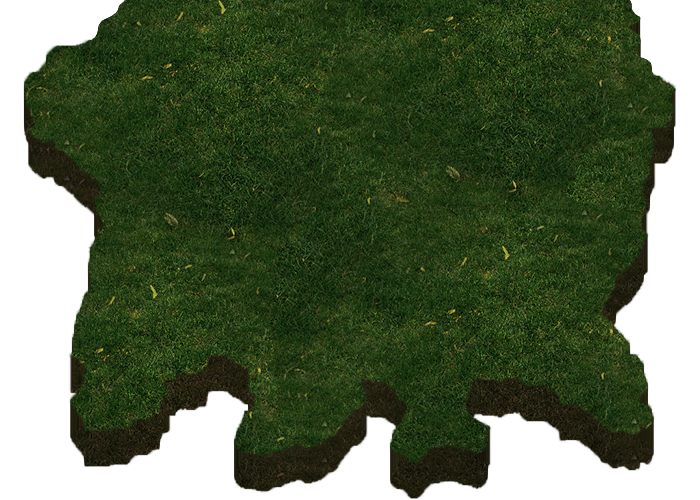
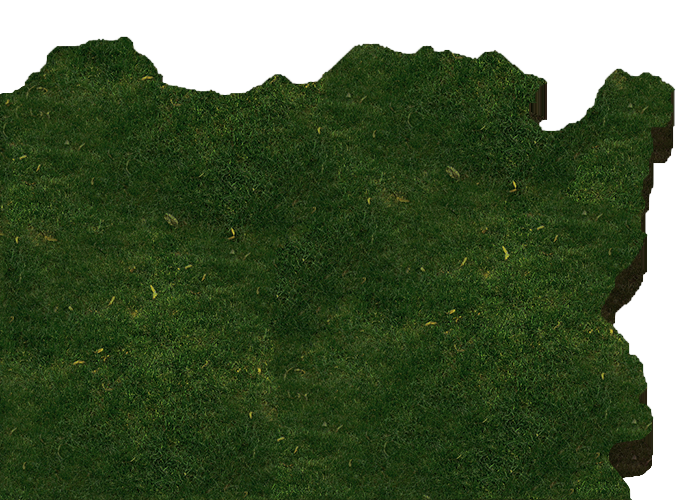
map : connect images - erase all

diff --git a/src/com/thrumania/src/mapEditor/Panel.java b/src/com/thrumania/src/mapEditor/Panel.java
@@ -16,6 +16,7 @@ import java.awt.event.MouseListener;
 import java.awt.event.MouseMotionListener;
 import java.util.ArrayList;
 import java.util.LinkedList;
+import java.util.concurrent.TimeUnit;
 
 public class Panel implements GraphicHandler {
     private com.thrumania.src.draw.GamePanel drawPanel;
@@ -50,7 +51,7 @@ public class Panel implements GraphicHandler {
         isRunningMap = true;
 
 
-        mapSize = new Dimension(1920 * 2, 1200 * 2);
+        mapSize = minMapSize;
         maxXMap = mapSize.width - 1920;
         maxYMap = mapSize.height - 1080 + Constant.BOTTOM_FRAME_HEIGHT/* for bottom panel*/;
 
@@ -75,13 +76,14 @@ public class Panel implements GraphicHandler {
                 g.drawImage(new ImageIcon("src/res/images/ground/sea.jpg").getImage(), -(x0 % Constant.MIN_WIDTH_OF_EACH_SEA) + i * Constant.MIN_WIDTH_OF_EACH_SEA, -(y0 % Constant.MIN_HEIGHT_OF_EACH_SEA) + j * Constant.MIN_HEIGHT_OF_EACH_SEA, Constant.MIN_WIDTH_OF_EACH_SEA, Constant.MIN_HEIGHT_OF_EACH_SEA, null);
             }
 
-        for(int i = x0 / Constant.MIN_WIDTH_OF_EACH_GROUND ; i < (1920 + x0)/Constant.MIN_WIDTH_OF_EACH_GROUND - x0 / Constant.MIN_WIDTH_OF_EACH_GROUND +1; i++)
+        for(int i = x0 / Constant.MIN_WIDTH_OF_EACH_GROUND ; i < (1920 + x0)/Constant.MIN_WIDTH_OF_EACH_GROUND  +1; i++)
             for(int j = y0 / Constant.MIN_HEIGHT_OF_EACH_GROUND ; j < (1080-250 + y0)/Constant.MIN_HEIGHT_OF_EACH_GROUND +1; j++)
             {
                 Constant.GROUND thisGround = (Constant.GROUND)ground.get(i).get(j)[0];
                 switch (thisGround){
                     case LOWLAND:
-                        g.drawImage(new ImageIcon("src/res/images/ground/lowLand/0-0.png").getImage() , -x0%Constant.MIN_WIDTH_OF_EACH_GROUND + (i-x0 / Constant.MIN_WIDTH_OF_EACH_GROUND) * Constant.MIN_WIDTH_OF_EACH_GROUND , -y0%Constant.MIN_HEIGHT_OF_EACH_GROUND + (j-y0 / Constant.MIN_HEIGHT_OF_EACH_GROUND) * Constant.MIN_HEIGHT_OF_EACH_GROUND ,Constant.MIN_WIDTH_OF_EACH_GROUND,Constant.MIN_HEIGHT_OF_EACH_GROUND, null);
+                        int imageNum = chooseLandImageNumber(Constant.GROUND.LOWLAND , i , j);
+                        g.drawImage(new ImageIcon("src/res/images/ground/lowLand/0-"+imageNum+".png").getImage() , -x0%Constant.MIN_WIDTH_OF_EACH_GROUND + (i-x0 / Constant.MIN_WIDTH_OF_EACH_GROUND) * Constant.MIN_WIDTH_OF_EACH_GROUND , -y0%Constant.MIN_HEIGHT_OF_EACH_GROUND + (j-y0 / Constant.MIN_HEIGHT_OF_EACH_GROUND) * Constant.MIN_HEIGHT_OF_EACH_GROUND ,Constant.MIN_WIDTH_OF_EACH_GROUND,Constant.MIN_HEIGHT_OF_EACH_GROUND, null);
                         break;
                     case HIGHLAND:
                         break;
@@ -257,6 +259,9 @@ public class Panel implements GraphicHandler {
 
     }
 
+    private int startDraggingX = -1;
+    private int startDraggingY = -1;
+
     @Override
     public void mouseEnter(int x, int y) {
         for(GameObject GO : gameObjects){
@@ -282,49 +287,186 @@ public class Panel implements GraphicHandler {
     @Override
     public void mouseDrag(int x, int y) {
 
+
+        if( ! (y>=1080 - Constant.BOTTOM_FRAME_HEIGHT) ){
+            int i = (x+x0) / Constant.MIN_WIDTH_OF_EACH_GROUND;
+            int j = (y+y0) / Constant.MIN_HEIGHT_OF_EACH_GROUND;
+            Object [] room = new Object[2];
+            switch (selectedDrawTool){
+                case (101) :
+                    room[0] = Constant.GROUND.SEA;
+                    room[1] = null;
+                    ground.get(i).set(j , room);
+                    break;
+                case(102):
+                    room[0] = Constant.GROUND.LOWLAND;
+                    room[1] = null;
+                    ground.get(i).set(j , room);
+                    break;
+                case(103):
+                    room[0] = Constant.GROUND.HIGHLAND;
+                    room[1] = null;
+                    ground.get(i).set(j , room);
+                    break;
+
+            }
+
+        }
+
+       else {
+            for (GameObject GO : gameObjects) {
+                if (GO.isInArea(x, y)) {
+                    if(GO.isInArea(startDraggingX,startDraggingY))
+                        GO.mouseClicked();
+                    break;
+                }
+            }
+        }
+
+
     }
 
     @Override
     public void mousePress(int x, int y) {
+        startDraggingX = x;
+        startDraggingY = y;
 
     }
 
     @Override
     public void mouseRelease(int x, int y) {
+        startDraggingX = -1;
+        startDraggingY = -1;
 
     }
 
 
     @Override
     public void pressButton(int code) {
+        System.out.println(code);
         switch(code){
-           // case :
+            case 9:     //erease all
+
+                Object emptyRoom [] = {Constant.GROUND.SEA , null};
+
+                for(int i=0 ; i < ground.size() ; i++)
+                    for(int j=0 ; j < ground.get(i).size() ; j++)
+                        ground.get(i).set(j , emptyRoom);
+
+                break;
+            case 11:    //fast up
+                movingUp = true;
+                movingDown = false;
+                break;
+            case 12:    //fast down
+                movingDown = true;
+                movingUp = false;
+                break;
+            case 13:    //fast left
+                movingLeft = true;
+                movingRight = false;
+                break;
+            case 14:    //fast right
+                movingRight = true;
+                movingLeft = false;
+                break;
+
+
         }
     }
 
+
+    private boolean movingUp = false , movingDown = false , movingRight = false , movingLeft = false;
 
     private void moveMap() {
         while (isRunningMap) {
 
             int x = (int) MouseInfo.getPointerInfo().getLocation().getX();
             int y = (int) MouseInfo.getPointerInfo().getLocation().getY();
-            if (x <= 5 && x0 > 0) {
-                x0--;
-            } else if (x >= Constant.Screen_Width - 5 && x0 < maxXMap) {
-                x0++;
+            boolean t = false;
+            boolean movingFast = movingUp || movingDown || movingRight || movingLeft;
+            if ( (x <= 5) && x0 > 0 && !movingFast) {
+                x0-=3;
+                t=true;
+
+            } else if ( (x >= Constant.Screen_Width - 5) && x0 < maxXMap && !movingFast) {
+                x0+=3;
+                t=true;
             }
 
-            if (y <= 5 && y0 > 0) {
-                y0--;
-            } else if (y >= Constant.Screen_Height - 5 && y0 < maxYMap) {
-                y0++;
+            if ( (y <= 5 ) && y0 > 0 && !movingFast) {
+                y0-=3;
+                t=true;
+            } else if ( (y >= Constant.Screen_Height - 5)  && y0 < maxYMap && !movingFast) {
+                y0+=3;
+                t=true;
+            }
+
+            repaint();
+
+            if(t) {
+                try {
+                    Thread.sleep(12);
+                } catch (InterruptedException e1) {
+                }
             }
 
 
-            try {
-                Thread.sleep(2);
-            } catch (InterruptedException e1) {
+
+            if ( (movingLeft) && x0 > 0) {
+                x0-=3;
+                t=true;
+
+                try {
+                    TimeUnit.NANOSECONDS.sleep(x0/4);
+                } catch (InterruptedException e1) {
+                }
+                repaint();
+            } else if ( ( movingRight) && x0 < maxXMap) {
+                x0+=3;
+                t=true;
+
+                try {
+                    TimeUnit.NANOSECONDS.sleep((maxXMap-x0)/4);
+                } catch (InterruptedException e1) {
+                }
+                repaint();
             }
+
+            if ( (movingUp ) && y0 > 0) {
+                y0-=3;
+                t=true;
+
+                try {
+                    TimeUnit.NANOSECONDS.sleep(y0/4);
+                } catch (InterruptedException e1) {
+                }
+                repaint();
+            } else if ( ( movingDown)  && y0 < maxYMap) {
+                y0+=3;
+                t=true;
+
+                try {
+                    TimeUnit.NANOSECONDS.sleep((maxYMap-y0)/4);
+                } catch (InterruptedException e1) {
+                }
+                repaint();
+            }
+
+
+
+
+
+            if(x0==0)
+                movingLeft = false;
+            else if(x0==maxXMap)
+                movingRight = false;
+            if(y0==0)
+                movingUp = false;
+            else if(y0==maxYMap)
+                movingDown = false;
+
+
             repaint();
         }
 
@@ -340,12 +482,11 @@ public class Panel implements GraphicHandler {
     }
 
     public void selectDrawTool(int code){
-        System.out.println("aa");
+
         if(selectedDrawTool!=-1){
             for(GameObject GO : gameObjects)
-                if(GO instanceof  DrawToolButton && ((DrawToolButton)GO).isSelected()) {
+                if(GO instanceof  DrawToolButton && ((DrawToolButton)GO).getCode() == selectedDrawTool) {
                     ((DrawToolButton) GO).select(false);
-                    System.out.println(((GameButton) GO).getCode());
                 }
         }
 
@@ -356,6 +497,24 @@ public class Panel implements GraphicHandler {
         selectedDrawTool = -1;
     }
 
+
+    private int chooseLandImageNumber(Constant.GROUND groundType , int x , int y){
+
+        int k = 0;
+
+        if( y>0 && ground.get(x).get(y-1)[0] == groundType)   //up
+            k+=1;
+        if( x<ground.size()-1 && ground.get(x+1).get(y) [0] == groundType)   //right
+            k+=2;
+        if( y<ground.get(x).size()-1 && ground.get(x).get(y+1) [0] == groundType)   //down
+            k+=4;
+        if( x>0 && ground.get(x-1).get(y)[0] == groundType)   //left
+            k+=8;
+
+
+        return k;
+
+    }
 }
-    // on click on "finish" change state to menu and give the "ground" and "object" to menu.Panel.editMap(...)
+    // on click on "finish" change state to menu and give the "ground"  to menu.Panel.editMap(...)
 

diff --git a/src/com/thrumania/src/objects/DrawToolButton.java b/src/com/thrumania/src/objects/DrawToolButton.java
@@ -41,8 +41,9 @@ public class DrawToolButton extends GameButton {
 
     public void select(boolean selected) {
         isSelected = selected;
-        System.out.println("w");
+
         super.image = (isSelected) ? secondImage : firstImage ;
+        super.currentImage =  (isSelected) ? secondImage : firstImage ;
     }
 
 

diff --git a/src/com/thrumania/src/objects/GameButton.java b/src/com/thrumania/src/objects/GameButton.java
@@ -15,7 +15,7 @@ import java.util.LinkedList;
 public class GameButton implements GameObject{
 
     protected Image image , image_MouseHover;
-    private Image currentImage;
+    protected Image currentImage;
     private int x , y;
     private int width , height;
     private String text;
